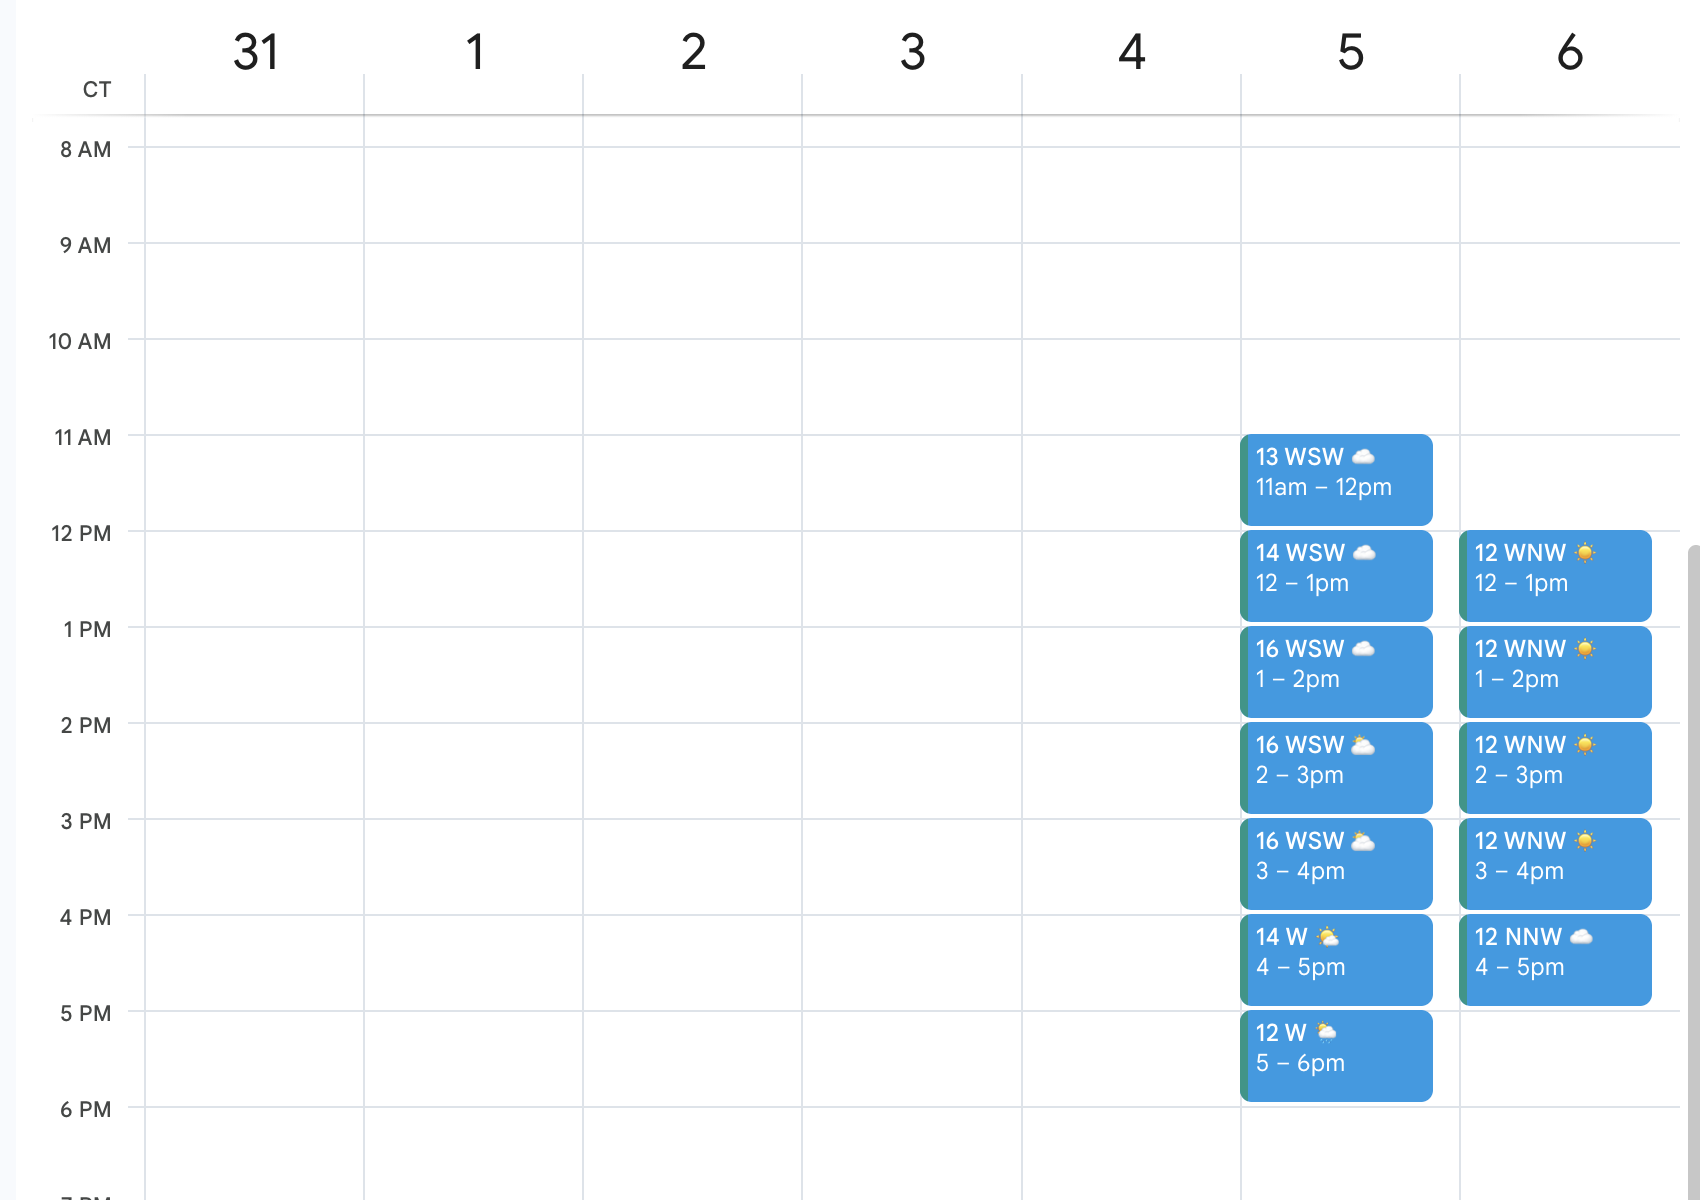
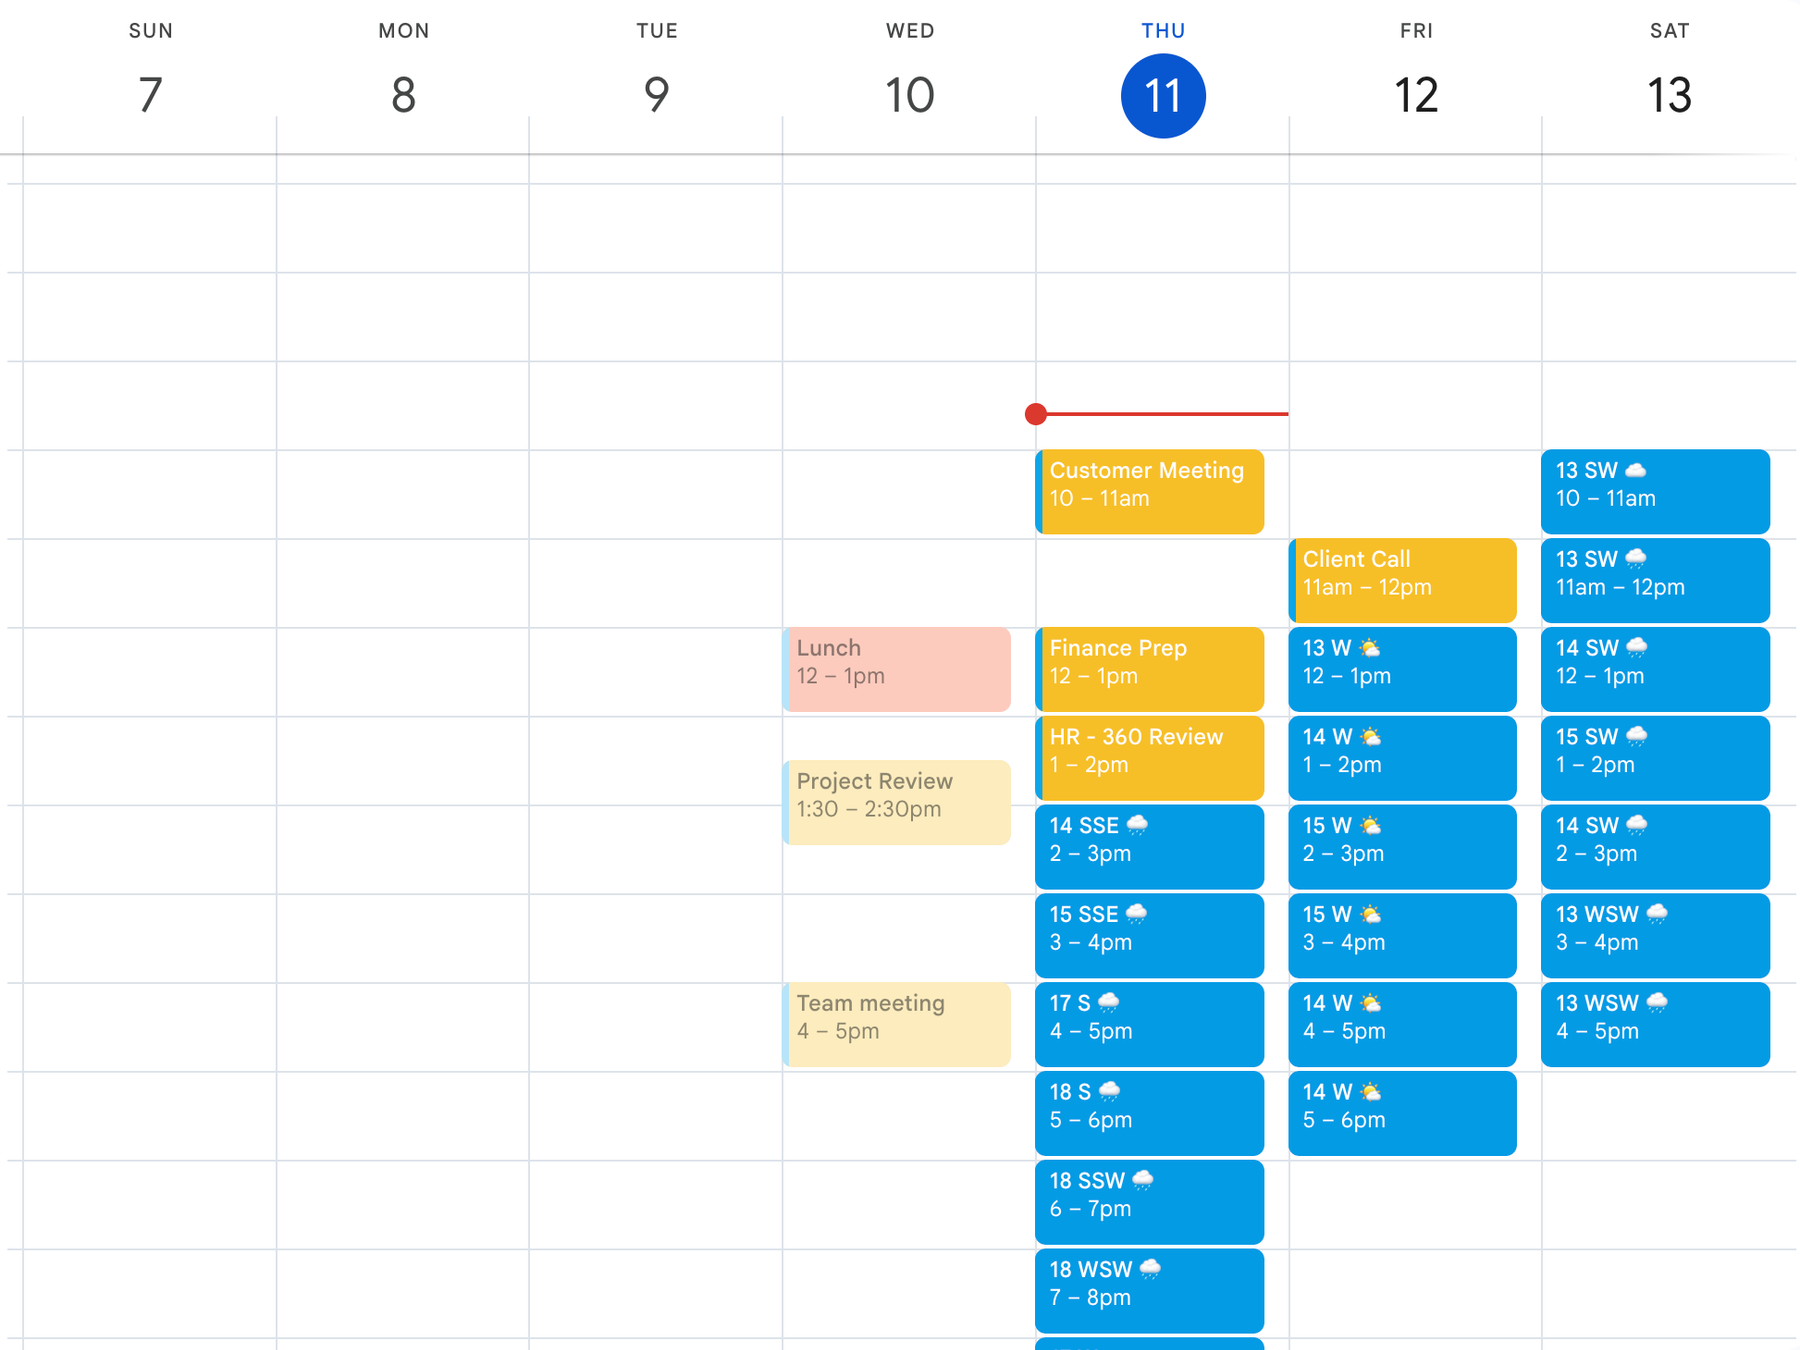
Update calendar hero screenshot

diff --git a/index.html b/index.html
@@ -310,7 +310,8 @@
       .site-header { height: auto; padding: 15px 0; }
       .site-header .shell { align-items: flex-start; }
       nav a:not(.button) { display: none; }
-      .hero { min-height: 700px; background-position: 68% center; }
+      .hero { min-height: 700px; background-position: 58% center; }
+      .hero::before { background: rgba(4, 11, 17, .8); }
       .hero-copy { padding: 66px 0 82px; }
       .proof-grid, .steps, .scenario-grid, .product-layout, .privacy-layout { grid-template-columns: 1fr; }
       .proof-item, .step { border-right: 0; border-bottom: 1px solid var(--line); }